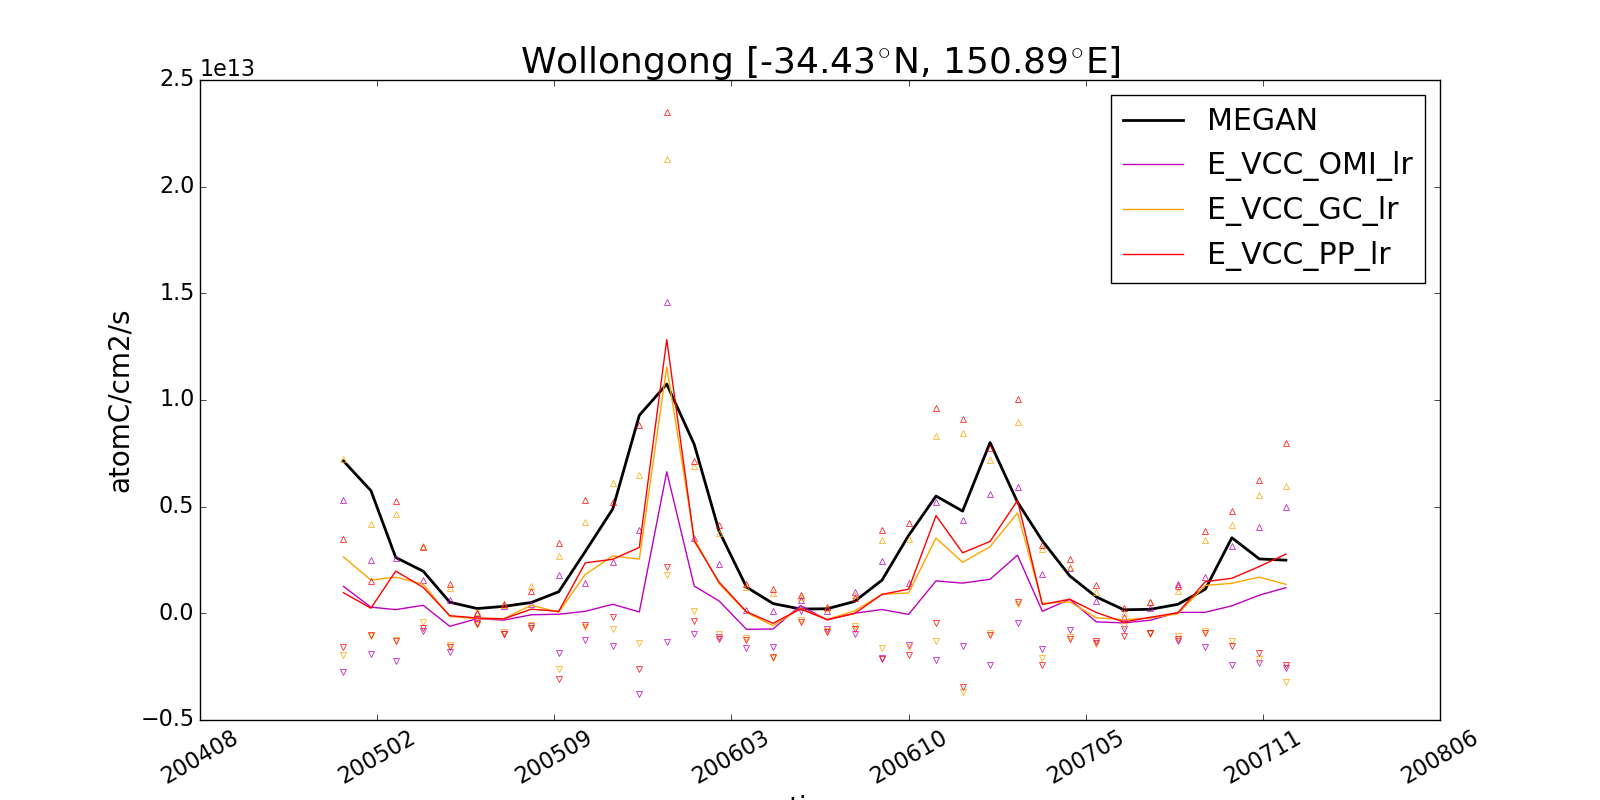
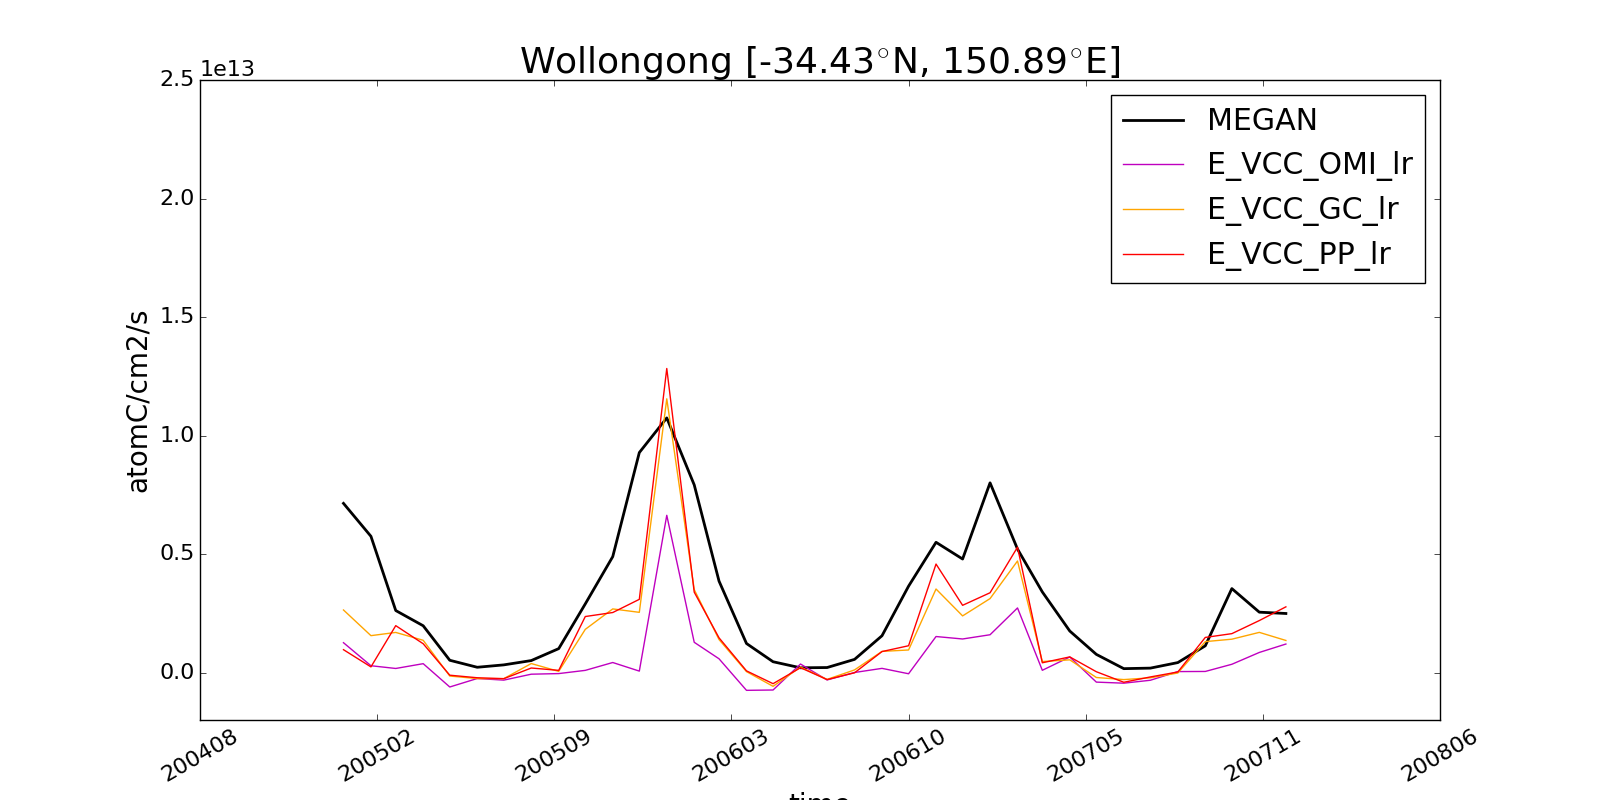
Updated campaign reading and plotting, year analysis begun

diff --git a/Analyse_E_isop.py b/Analyse_E_isop.py
@@ -43,6 +43,45 @@ colours = ['chartreuse','magenta','aqua']
 ###############
 ### Methods ###
 ###############
+def yearly_cycle_vs_campaigns(d0=datetime(2005,1,1),dn=datetime(2007,12,31)):
+    '''
+    '''
+    mumba=campaign()
+    mumba.read_mumba()
+    sps1=campaign()
+    sps1.read_sps(1)
+    sps2=campaign()
+    sps2.read_sps(2)
+    colors=['m','pink','orange']
+
+    Enew=E_new(d0,dn)
+    lats,lons=Enew.lats_lr,Enew.lons_lr
+
+
+    plt.figure(figsize=(14,16))
+    # create map, with gridsquare of comparison, and dots for campaigns
+    plt.subplot(2,1,1)
+    m=pp.displaymap(region=[-45,130,-14,155])
+    pp.add_grid_to_map(m,)
+    # Add dot to map
+    for i,[y,x] in enumerate([[mumba.lat,mumba.lon],[sps1.lat,sps1.lon],[sps2.lat,sps2.lon]]):
+        mx,my = m(x, y)
+        m.plot(mx, my, 'o', markersize=3, color=colors[i])
+
+    plt.subplot(2,1,2)
+    dates,isop=mumba.get_daily_hour(key='isop')
+    d1,i1=sps1.get_daily_hour(key='isop')
+    d2,i2=sps2.get_daily_hour(key='isop')
+    Enew.get_series('isop',)
+
+    pp.plot_yearly_cycle(isop,dates,color='m',label='MUMBA',linewidth=2)
+    pp.plot_yearly_cycle(i1,d1,color='pink',label='SPS1',linewidth=2)
+    pp.plot_yearly_cycle(i2,d2,color='orange',label='SPS2',linewidth=2)
+
+    plt.legend()
+    plt.title('isoprene yearly cycle')
+    plt.tight_layout()
+
 def check_E_new(d0=datetime(2005,1,1),dn=datetime(2005,1,31),region=pp.__AUSREGION__, plotswaths=False):
     '''
         Print out averages and anomalies in time series
@@ -79,8 +118,9 @@ def check_E_new(d0=datetime(2005,1,1),dn=datetime(2005,1,31),region=pp.__AUSREGI
 
 def E_time_series(d0=datetime(2005,1,1),dn=datetime(2006,12,31),
                   lat=pp.__cities__['Syd'][0],lon=pp.__cities__['Syd'][1]-0.5,
-                  locname='Sydney',count=False,
-                  monthly=False, monthly_func='median'):
+                  locname='Sydney',count=False, plot_error=False,
+                  monthly=False, monthly_func='median',
+                  ylims=None):
     '''
         Plot the time series of E_new, eventually compare against MEGAN, etc..
         Look at E_VCC_OMI, E_VCC_GC, and E_VCC_PP
@@ -111,7 +151,6 @@ def E_time_series(d0=datetime(2005,1,1),dn=datetime(2006,12,31),
         pixelspp = getattr(Enew, 'pixels_PP'+lrstr)
 
         # Plot four time series
-
         f,axs = plt.subplots(1+count,1,figsize=(16,8), sharex=True)
         ax0=axs
         if count:
@@ -140,15 +179,17 @@ def E_time_series(d0=datetime(2005,1,1),dn=datetime(2006,12,31),
             pp.plot_time_series(mdates,marr,
                                 linewidth=linewidths[i],
                                 color=colours[i],label=labels[i])
-            # error points
-            if i>0:
-                pp.plot_time_series(mdates,marr+std,
-                                    color=colours[i],marker='^',linestyle='None',
-                                    markerfacecolor='None',markersize=4, markeredgecolor=colours[i])
-                pp.plot_time_series(mdates,marr-std,
-                                    color=colours[i],marker='v',linestyle='None',
-                                    markerfacecolor='None',markersize=4, markeredgecolor=colours[i])
 
+            if i>0:
+                # error points
+                if plot_error:
+
+                    pp.plot_time_series(mdates,marr+std,
+                                        color=colours[i],marker='^',linestyle='None',
+                                        markerfacecolor='None',markersize=4, markeredgecolor=colours[i])
+                    pp.plot_time_series(mdates,marr-std,
+                                        color=colours[i],marker='v',linestyle='None',
+                                        markerfacecolor='None',markersize=4, markeredgecolor=colours[i])
                 # plot pixel counts
                 if count:
                     plt.sca(axs[1])
@@ -157,6 +198,8 @@ def E_time_series(d0=datetime(2005,1,1),dn=datetime(2006,12,31),
                     #plt.plot(pix, color=colours[i])
 
         plt.sca(ax0)
+        if ylims is not None:
+            plt.ylim(ylims)
         plt.title(locname+ ' [%.2f$^{\circ}$N, %.2f$^{\circ}$E]'%(lat,lon))
         plt.ylabel(Enew.attributes[ekeys[0]]['units'])
         plt.legend(loc='best')
@@ -696,15 +739,15 @@ if __name__=='__main__':
     ## Plot showing time series within Australia, and Sydney area
     ## In isop chapter results
     ## Ran 16/7/18
-    E_regional_time_series(d0,de,etype='gc')
+    #E_regional_time_series(d0,de,etype='gc')
                            #force_monthly=True, force_monthly_func='median')
     ## Time series at a particular location
     ## Takes a few minuts (use qsub), In isop chapter results
-    ## Ran 18/7/18 - updating for pixel counts and errorbars
-    #E_time_series(d0,de,#lon=pp.__cities__['Wol'][1]-2.5, locname='Inland',count=False)
-    #              lat=pp.__cities__['Wol'][0],lon=pp.__cities__['Wol'][1],
-    #              locname='Wollongong',
-    #              monthly=True, monthly_func='median')
+    ## Ran 25/7/18 - updating for pixel counts and errorbars
+    E_time_series(d0,de,#lon=pp.__cities__['Wol'][1]-2.5, locname='Inland',count=False)
+                  lat=pp.__cities__['Wol'][0],lon=pp.__cities__['Wol'][1],
+                  locname='Wollongong', ylims=[-0.2e13,2.5e13],
+                  monthly=True, monthly_func='median')
 
 
     #All_maps()

diff --git a/classes/campaign.py b/classes/campaign.py
@@ -45,7 +45,19 @@ class campaign:
         self.height    = 0# measurement height from ground level (m)
         self.elevation = 0# ground level above sea level (m)
 
-    def read_SPS(self, number=1):
+
+    def get_daily_hour(self, hour=13,key='hcho'):
+        '''
+            Return one value per day matching the hour (argument)
+            returns dates, data
+        '''
+
+        inds = np.array([d.hour == hour for d in self.dates])
+        dates=np.array(self.dates)[inds]
+        data=getattr(self,key)[inds]
+        return dates,data
+
+    def read_sps(self, number=1):
         '''
             Read the sps1 or sps2 dataset
             # Measurements are reported in local time (UTC+10)
@@ -63,8 +75,8 @@ class campaign:
         self.lat,self.lon=-33.8688, 151.2093 # sydney lat/lon
 
         # First row is detection limits
-        self.hcho_detection_limit=float(data[h_key][0])
-        self.isop_detection_limit=float(data[i_key][0])
+        self.attrs['hcho']['DL']=float(data[h_key][0])
+        self.attrs['isop']['DL']=float(data[i_key][0])
 
 
         # second row is empty in sps1
@@ -74,10 +86,15 @@ class campaign:
         isop=np.array(data[i_key][start:-1])
 
         # convert from strings to floats
-        hcho[hcho=='<mdl'] = 'NaN'
+        hcho_low = hcho=='<mdl'
+        hcho[hcho_low] = 'NaN'
         self.hcho = hcho.astype(np.float)
-        isop[isop=='<mdl'] = 'NaN'
+        self.hcho[hcho_low] = self.attrs['hcho']['DL'] / 2.0 # set to half of detection limit
+
+        isop_low = isop=='<mdl'
+        isop[isop_low] = 'NaN'
         self.isop = isop.astype(np.float)
+        self.isop[isop_low] = self.attrs['isop']['DL'] / 2.0 # set to half of detection limit
 
         self.dates=[]
         # Convert strings to dates:
@@ -117,18 +134,38 @@ class campaign:
 
         self.isop                   = np.array(isop_df['C5H8 [ppbv]'])
         self.attrs['isop']['units'] = 'ppbv'
-
+        self.attrs['isop']['DL']    = 0.003
+        self.attrs['isop']['DL_full']    = '20121221-20121229: .003, 20122912-20130118: .005, 20130119-20130215: .003'
+        #range1=dates_isop <
 
         self.hcho                   = np.array(hcho_df['HCHO [ppbv]'])
         self.attrs['hcho']['units'] = 'ppbv'
+        self.attrs['hcho']['DL']    = 0.105
+        self.attrs['hcho']['DL_full']    = '20121221-20121229: .205, 20122912-20130118: .105, 20130119-20130215: .186'
 
         # ignore last 16 o3 measurements as they occur without matching hcho and isop measurements.
         self.ozone                  = np.array(o3_df['O3 [ppbv] (mean of hourly O3 concentration)'])[0:-16]
         self.attrs['ozone']['units']= 'ppbv'
         self.attrs['ozone']['DL']   = 0.5
 
+        # Any measurements below detection limits are set to half the DL
+        range1= np.array([ d < datetime(2012,12,30) for d in self.dates ])
+        range3= np.array([ d > datetime(2013,1,18) for d in self.dates ])
+        range2= np.array(~range1 * ~range3)
 
-    def plot_series(self,title=None,pname=None,dfmt='%d %b'):
+        # check sub detection limit occurences
+        #isop_dl1 = isop[range1 * (isop<0.003)] # occurs just once
+        self.isop[range1 * (self.isop<0.003)] = 0.003/2.0
+        #isop_dl2 = isop[range2 * (isop<0.005)] # none
+        #isop_dl3 = isop[range3 * (isop<0.003)] # none
+
+        #hcho_dl1 = hcho[range1 * (hcho<0.205)] # 9 times
+        self.hcho[range1 * (self.hcho<0.205)] = 0.205/2.0
+        #hcho_dl2 = hcho[range2 * (hcho<0.105)] # none
+        #hcho_dl3 = hcho[range3 * (hcho<0.186)] # 13 times
+        self.hcho[range1 * (self.hcho<0.186)] = 0.186/2.0
+
+    def plot_series(self,title=None,pname=None,dfmt='%Y%m%d'): #'%d %b'):
 
         dates=self.dates
 

diff --git a/tests.py b/tests.py
@@ -85,6 +85,39 @@ def check_array(array, nonzero=False):
 ######################       TESTS                  #########################
 #############################################################################
 
+def compare_campaigns():
+    mumba=campaign()
+    mumba.read_mumba()
+    sps1=campaign()
+    sps1.read_sps(1)
+    sps2=campaign()
+    sps2.read_sps(2)
+
+    plt.figure()
+    plt.subplot(2,3,1)
+    mumba.plot_series(title='MUMBA')
+    plt.subplot(2,3,2)
+    sps1.plot_series(title='SPS1')
+    plt.subplot(2,3,3)
+    sps2.plot_series(title='SPS2')
+
+
+    plt.subplot(2,1,2)
+    dates,isop=mumba.get_daily_hour(key='isop')
+    d1,i1=sps1.get_daily_hour(key='isop')
+    d2,i2=sps2.get_daily_hour(key='isop')
+
+    pp.plot_yearly_cycle(isop,dates,color='m',label='MUMBA',linewidth=2)
+    pp.plot_yearly_cycle(i1,d1,color='pink',label='SPS1',linewidth=2)
+    pp.plot_yearly_cycle(i2,d2,color='orange',label='SPS2',linewidth=2)
+
+    plt.legend()
+    plt.title('isoprene yearly cycle')
+    plt.tight_layout()
+    pname='Figs/campaigns_compared.png'
+    plt.savefig(pname)
+    plt.close()
+    print('SAVED ',pname)
 
 def check_HEMCO_restarts():
     '''

diff --git a/utilities/plotting.py b/utilities/plotting.py
@@ -1033,6 +1033,24 @@ def plot_daily_cycle(dates, data, houroffset=0, color='k', overplot=False):
     #plt.savefig(pname)
     #print("SAVED FIGURE:",pname)
 
+def plot_yearly_cycle(data,dates, **plotargs):
+    '''
+        Plot a time series wrapped over a year
+    '''
+    # split data into years
+    ydates=util.list_years(dates[0],dates[-1],dates=dates) # split by years
+    for year in ydates:
+        inds = np.array([ (d >= year[0]) * (d <= year[-1]) for d in dates ], dtype=np.bool)
+        doys = [d.timetuple().tm_yday for d in year]
+        plt.plot(doys, np.array(data)[inds], **plotargs)
+        # only want to label this guy once
+        if 'label' in plotargs:
+            _label=plotargs.pop('label')
+    # looking at year
+    plt.xlim([-5,370])
+    plt.xlabel('DOY')
+
+
 def add_dots_to_map(bmap, lats, lons, region, cmapname='rainbow', add_rectangle=True, landonly=True):
     '''
         Add dots (optionally coloured) to the bmap

diff --git a/utilities/utilities.py b/utilities/utilities.py
@@ -311,6 +311,22 @@ def list_months(day0,dayn):
     months=[d for d in days if d.day==1]
     return months
 
+def list_years(day0,dayn,dates=None):
+    '''
+        list years from day0 -> dayn
+        if dates is supplied, return list of lists: one list for each year
+    '''
+    days=list_days(day0,dayn)
+    yearset=set( d.year for d in days )
+    years = [datetime(year,1,1) for year in yearset]
+
+    if dates is not None:
+        years=[]
+        for year in yearset:
+            yeardates = [d for d in dates if d.year==year]
+            years.append(yeardates)
+    return years
+
 def list_to_lists(mylist,chunksize=30):
     '''
         split long list into lists of length 30

diff --git a/classes/E_new.py b/classes/E_new.py
@@ -178,9 +178,12 @@ class E_new:
             arr[di]=arr[di]-mavg[i]
         return mavg, arr
 
-    def get_series(self, key, region,lowres=False, maskocean=True, testplot=False):
+    def get_series(self, key, region,lowres=False, maskocean=True,
+                   lat=None,lon=None,
+                   testplot=False,):
         '''
-            Average over region[SWNE]
+            Grab time series of given key (time,lats,lons)
+            optionally can pull out series at single lat,lon
             Return dates, data[key]
         '''
         data=np.copy(getattr(self,key)) # copy so we don't overwrite anything

diff --git a/localtests.py b/localtests.py
@@ -57,11 +57,6 @@ start1=timeit.default_timer()
 ##########
 
 
-mumba=campaign()
-mumba.read_mumba()
-mumba.plot_series(title='MUMBA',dfmt='%Y%b%d')
-plt.legend()
-
 ###########
 ### Record and time STUJFFS
 ###########
